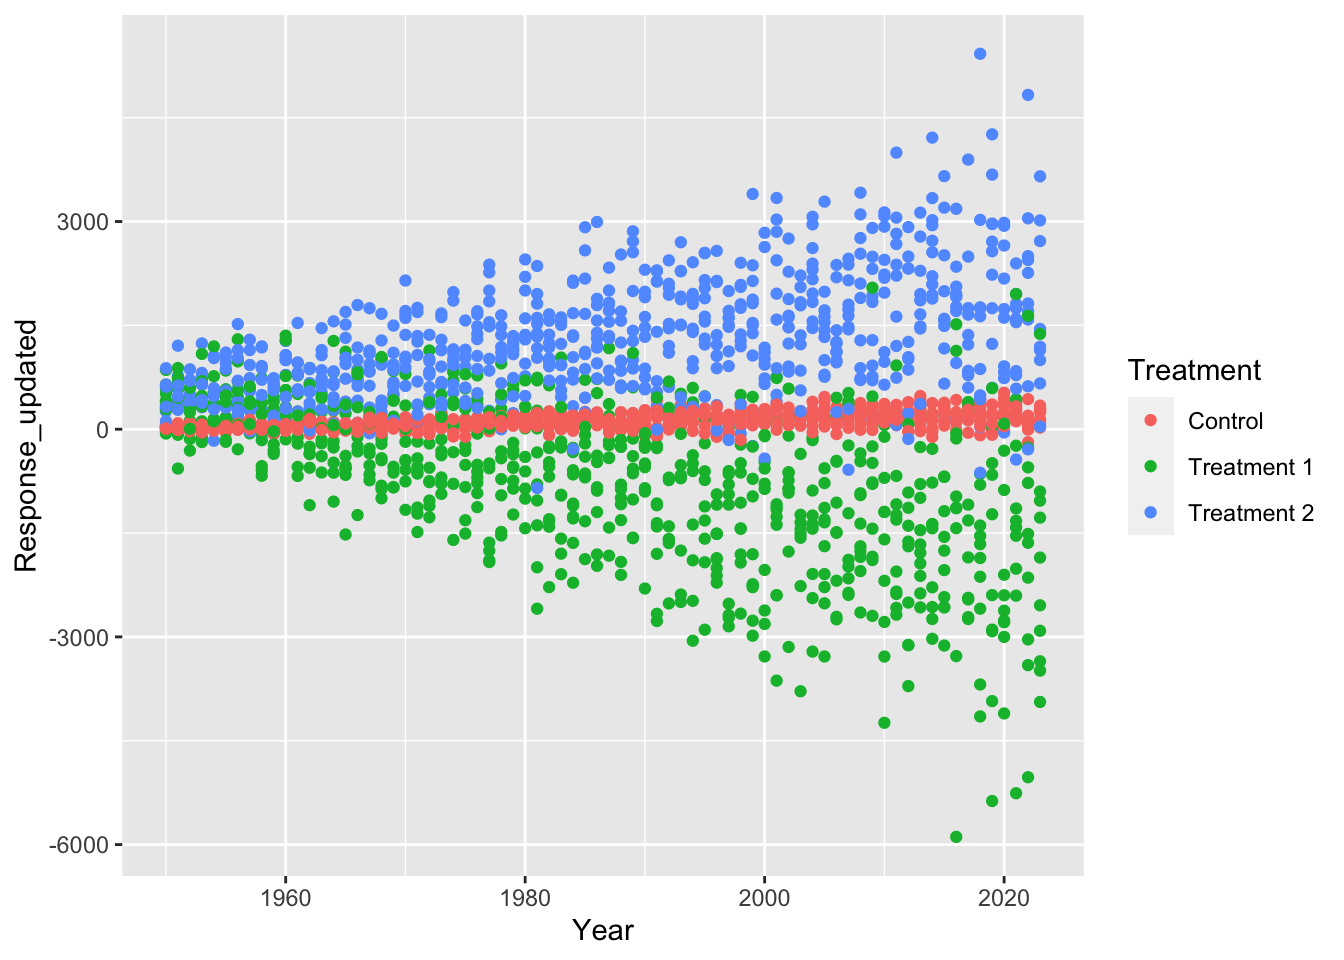
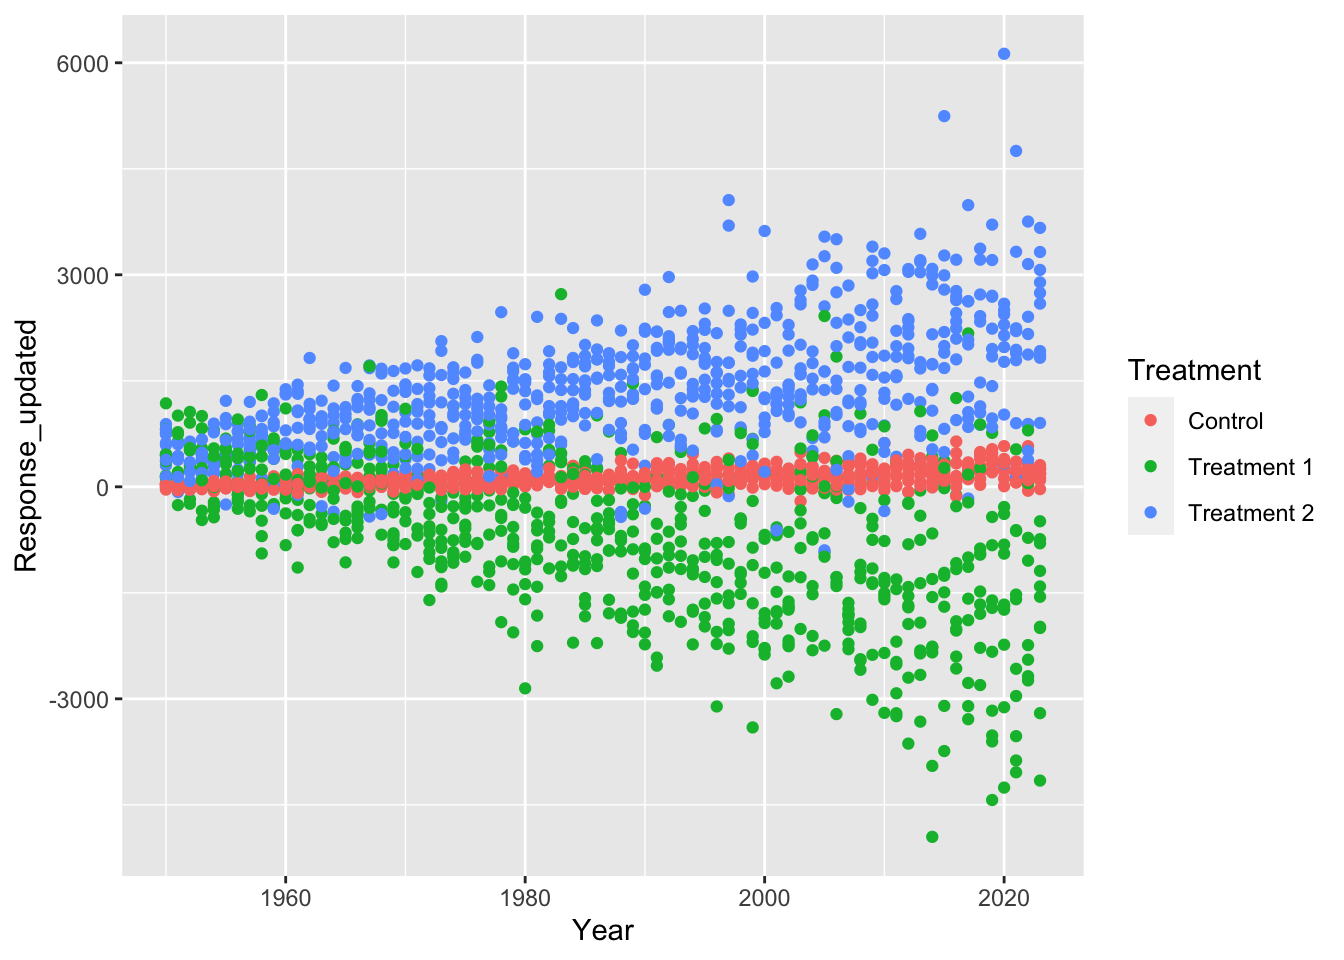
plots added

diff --git a/03_DataVisualisation.html b/03_DataVisualisation.html
@@ -82,7 +82,12 @@ pre > code.sourceCode > span > a:first-child::before { text-decoration: underlin
   <li><a href="#visualisation" id="toc-visualisation" class="nav-link active" data-scroll-target="#visualisation">Visualisation</a>
   <ul class="collapse">
   <li><a href="#base" id="toc-base" class="nav-link" data-scroll-target="#base">Base</a></li>
-  <li><a href="#ggplot2" id="toc-ggplot2" class="nav-link" data-scroll-target="#ggplot2">ggplot2</a></li>
+  <li><a href="#ggplot2" id="toc-ggplot2" class="nav-link" data-scroll-target="#ggplot2">ggplot2</a>
+  <ul class="collapse">
+  <li><a href="#the-grammar-of-graphics" id="toc-the-grammar-of-graphics" class="nav-link" data-scroll-target="#the-grammar-of-graphics">The Grammar of Graphics</a></li>
+  <li><a href="#plotting" id="toc-plotting" class="nav-link" data-scroll-target="#plotting">Plotting</a></li>
+  <li><a href="#appearance" id="toc-appearance" class="nav-link" data-scroll-target="#appearance">Appearance</a></li>
+  </ul></li>
   </ul></li>
   </ul>
 </nav>
@@ -210,9 +215,9 @@ pre > code.sourceCode > span > a:first-child::before { text-decoration: underlin
 <pre><code># A tibble: 3 × 3
   Treatment   MeanResponse SDResponse
   &lt;fct&gt;              &lt;dbl&gt;      &lt;dbl&gt;
-1 Control             121.       114.
-2 Treatment 1        -735.      1167.
-3 Treatment 2        1248.       859.</code></pre>
+1 Control             121.       120.
+2 Treatment 1        -659.      1107.
+3 Treatment 2        1299.       884.</code></pre>
 </div>
 <div class="sourceCode cell-code" id="cb12"><pre class="sourceCode r code-with-copy"><code class="sourceCode r"><span id="cb12-1"><a href="#cb12-1" aria-hidden="true" tabindex="-1"></a>df_1_summary_year<span class="ot">&lt;-</span>df_1 <span class="sc">%&gt;%</span> </span>
 <span id="cb12-2"><a href="#cb12-2" aria-hidden="true" tabindex="-1"></a>  <span class="fu">group_by</span>(Treatment,Year) <span class="sc">%&gt;%</span> </span>
@@ -228,56 +233,76 @@ pre > code.sourceCode > span > a:first-child::before { text-decoration: underlin
 # Groups:   Treatment [3]
    Treatment  Year MeanResponse SDResponse
    &lt;fct&gt;     &lt;dbl&gt;        &lt;dbl&gt;      &lt;dbl&gt;
- 1 Control    1950         4.81       20.7
- 2 Control    1951        21.4        32.3
- 3 Control    1952        31.0        36.1
- 4 Control    1953         5.16       34.5
- 5 Control    1954        28.1        27.8
- 6 Control    1955        27.2        40.5
- 7 Control    1956        44.9        46.5
- 8 Control    1957        48.7        50.5
- 9 Control    1958        29.8        28.8
-10 Control    1959        37.8        57.6
+ 1 Control    1950        14.7        28.1
+ 2 Control    1951         7.03       38.3
+ 3 Control    1952        12.8        41.5
+ 4 Control    1953        20.7        33.3
+ 5 Control    1954        16.3        44.4
+ 6 Control    1955        12.6        33.7
+ 7 Control    1956        28.5        32.5
+ 8 Control    1957        15.2        59.6
+ 9 Control    1958        19.6        38.4
+10 Control    1959        60.2        64.5
 # ℹ 212 more rows</code></pre>
 </div>
 </div>
 </section>
 <section id="ggplot2" class="level2">
 <h2 class="anchored" data-anchor-id="ggplot2">ggplot2</h2>
-<p>Now lets try and plot these data, for more complex plots ggplot2 is by far the best package</p>
-<p>we first make a blank ggplot saying what data we will include</p>
-<p>then we want to add layers to the plot for what we want to plot and how we want it to look</p>
-<p>for elements of the plot that change with data from the df we use the aes() function to show what column we want to map to what element (mapping=aes())</p>
+<section id="the-grammar-of-graphics" class="level3">
+<h3 class="anchored" data-anchor-id="the-grammar-of-graphics">The Grammar of Graphics</h3>
+<p>For more complex (and very simple) plots ggplot2 is by far the best package!</p>
+<p>The gg in ggplot2 and a lot of the associated packages stands for grammar of graphics, which is a very old framework for good visualisation.</p>
+<p>We don’t need to go far into it, but it effectively relies on three elements:</p>
+<ul>
+<li><p>Data</p></li>
+<li><p>Mapping</p></li>
+<li><p>Geometry</p></li>
+</ul>
+<p>In every plot we will want to plot Data, it may be 1 value, 1 dimensional, 2 dimensional…. all the way up to multi facetted and dimensional.</p>
+<p>We then want to assign some element of the data to elements of the plot, this is called mapping.</p>
+<p>This mapping will change based on the geometry (shape/style).</p>
+<p>For example earlier with base plot we Mapped a column (Data) to be the x axis and another to the y. (base plot assumed our geometry was a scatter plot)</p>
+</section>
+<section id="plotting" class="level3">
+<h3 class="anchored" data-anchor-id="plotting">Plotting</h3>
+<p>Using these principles we can build some very impressive and complicated plots.</p>
+<p>We first make a blank ggplot saying what data we will include using ggplot().</p>
+<p>For elements of the plot (aesthetics) that change with data from the df we use the aes() function to show what column we want to map to what element (mapping=aes()).</p>
+<p>Then we want to add layers (geometries) to the plot for what we want to plot and how we want it to look.</p>
 <div class="cell">
-<div class="sourceCode cell-code" id="cb16"><pre class="sourceCode r code-with-copy"><code class="sourceCode r"><span id="cb16-1"><a href="#cb16-1" aria-hidden="true" tabindex="-1"></a><span class="fu">ggplot</span>(<span class="at">data=</span>df_1)<span class="sc">+</span></span>
-<span id="cb16-2"><a href="#cb16-2" aria-hidden="true" tabindex="-1"></a>  <span class="fu">geom_point</span>(<span class="at">mapping=</span><span class="fu">aes</span>(<span class="at">x=</span>Year,<span class="at">y=</span>Response_updated,<span class="at">colour=</span>Treatment))</span></code><button title="Copy to Clipboard" class="code-copy-button"><i class="bi"></i></button></pre></div>
+<div class="sourceCode cell-code" id="cb16"><pre class="sourceCode r code-with-copy"><code class="sourceCode r"><span id="cb16-1"><a href="#cb16-1" aria-hidden="true" tabindex="-1"></a><span class="fu">ggplot</span>(<span class="at">data=</span>df_1,</span>
+<span id="cb16-2"><a href="#cb16-2" aria-hidden="true" tabindex="-1"></a>       <span class="at">mapping=</span><span class="fu">aes</span>(<span class="at">x=</span>Year,</span>
+<span id="cb16-3"><a href="#cb16-3" aria-hidden="true" tabindex="-1"></a>                   <span class="at">y=</span>Response_updated,</span>
+<span id="cb16-4"><a href="#cb16-4" aria-hidden="true" tabindex="-1"></a>                   <span class="at">colour=</span>Treatment))<span class="sc">+</span></span>
+<span id="cb16-5"><a href="#cb16-5" aria-hidden="true" tabindex="-1"></a>  <span class="fu">geom_point</span>()</span></code><button title="Copy to Clipboard" class="code-copy-button"><i class="bi"></i></button></pre></div>
 <div class="cell-output-display">
 <p><img src="03_DataVisualisation_files/figure-html/unnamed-chunk-9-1.png" class="img-fluid" width="672"></p>
 </div>
 </div>
-<p>This looks good but could be Nicer there are many geom types to dictate the type of plot</p>
-<p>different geom types have different required aesthetic elements, we could check by using ??geom_point for example</p>
-<p>generally we use, x, y, colour, fill and alpha (transparency)</p>
-<p>unlike base plotting ggplot creates a legend automatically, this becomes more complex as the plot becomes more complex but is generally a nice default</p>
+<p>This looks good but could be nicer! There are many geom types to dictate the type of plot.</p>
+<p>Different geom types have different required aesthetic elements, we could check by using ??geom_point for example</p>
+<p>Generally we use x, y, colour, fill and alpha (transparency). (Sometimes z or label or many others)</p>
+<p>Unlike base plotting ggplot creates a legend automatically, this becomes more complex as the plot becomes more complex but is generally a nice default.</p>
 <div class="cell">
-<div class="sourceCode cell-code" id="cb17"><pre class="sourceCode r code-with-copy"><code class="sourceCode r"><span id="cb17-1"><a href="#cb17-1" aria-hidden="true" tabindex="-1"></a><span class="fu">ggplot</span>(df_1)<span class="sc">+</span></span>
-<span id="cb17-2"><a href="#cb17-2" aria-hidden="true" tabindex="-1"></a>  <span class="fu">geom_density</span>(<span class="fu">aes</span>(<span class="at">x=</span>Response_updated,<span class="at">colour=</span>Treatment))</span></code><button title="Copy to Clipboard" class="code-copy-button"><i class="bi"></i></button></pre></div>
+<div class="sourceCode cell-code" id="cb17"><pre class="sourceCode r code-with-copy"><code class="sourceCode r"><span id="cb17-1"><a href="#cb17-1" aria-hidden="true" tabindex="-1"></a><span class="fu">ggplot</span>(df_1,<span class="fu">aes</span>(<span class="at">x=</span>Response_updated,<span class="at">colour=</span>Treatment))<span class="sc">+</span></span>
+<span id="cb17-2"><a href="#cb17-2" aria-hidden="true" tabindex="-1"></a>  <span class="fu">geom_density</span>()</span></code><button title="Copy to Clipboard" class="code-copy-button"><i class="bi"></i></button></pre></div>
 <div class="cell-output-display">
 <p><img src="03_DataVisualisation_files/figure-html/unnamed-chunk-10-1.png" class="img-fluid" width="672"></p>
 </div>
-<div class="sourceCode cell-code" id="cb18"><pre class="sourceCode r code-with-copy"><code class="sourceCode r"><span id="cb18-1"><a href="#cb18-1" aria-hidden="true" tabindex="-1"></a><span class="fu">ggplot</span>(df_1)<span class="sc">+</span></span>
-<span id="cb18-2"><a href="#cb18-2" aria-hidden="true" tabindex="-1"></a>  <span class="fu">geom_col</span>(<span class="fu">aes</span>(<span class="at">x=</span>Year,<span class="at">y=</span>Response_updated,<span class="at">fill=</span>Treatment),<span class="at">alpha=</span><span class="fl">0.5</span>)</span></code><button title="Copy to Clipboard" class="code-copy-button"><i class="bi"></i></button></pre></div>
+<div class="sourceCode cell-code" id="cb18"><pre class="sourceCode r code-with-copy"><code class="sourceCode r"><span id="cb18-1"><a href="#cb18-1" aria-hidden="true" tabindex="-1"></a><span class="fu">ggplot</span>(df_1,<span class="fu">aes</span>(<span class="at">x=</span>Year,<span class="at">y=</span>Response_updated,<span class="at">fill=</span>Treatment))<span class="sc">+</span></span>
+<span id="cb18-2"><a href="#cb18-2" aria-hidden="true" tabindex="-1"></a>  <span class="fu">geom_col</span>(<span class="at">alpha=</span><span class="fl">0.5</span>)</span></code><button title="Copy to Clipboard" class="code-copy-button"><i class="bi"></i></button></pre></div>
 <div class="cell-output-display">
 <p><img src="03_DataVisualisation_files/figure-html/unnamed-chunk-10-2.png" class="img-fluid" width="672"></p>
 </div>
-<div class="sourceCode cell-code" id="cb19"><pre class="sourceCode r code-with-copy"><code class="sourceCode r"><span id="cb19-1"><a href="#cb19-1" aria-hidden="true" tabindex="-1"></a><span class="fu">ggplot</span>(df_1)<span class="sc">+</span></span>
-<span id="cb19-2"><a href="#cb19-2" aria-hidden="true" tabindex="-1"></a>  <span class="fu">geom_boxplot</span>(<span class="fu">aes</span>(<span class="at">x=</span>Treatment,<span class="at">y=</span>Response_updated,<span class="at">fill=</span>Treatment),<span class="at">alpha=</span><span class="fl">0.5</span>)</span></code><button title="Copy to Clipboard" class="code-copy-button"><i class="bi"></i></button></pre></div>
+<div class="sourceCode cell-code" id="cb19"><pre class="sourceCode r code-with-copy"><code class="sourceCode r"><span id="cb19-1"><a href="#cb19-1" aria-hidden="true" tabindex="-1"></a><span class="fu">ggplot</span>(df_1,<span class="fu">aes</span>(<span class="at">x=</span>Treatment,<span class="at">y=</span>Response_updated,<span class="at">fill=</span>Treatment))<span class="sc">+</span></span>
+<span id="cb19-2"><a href="#cb19-2" aria-hidden="true" tabindex="-1"></a>  <span class="fu">geom_boxplot</span>(<span class="at">alpha=</span><span class="fl">0.5</span>)</span></code><button title="Copy to Clipboard" class="code-copy-button"><i class="bi"></i></button></pre></div>
 <div class="cell-output-display">
 <p><img src="03_DataVisualisation_files/figure-html/unnamed-chunk-10-3.png" class="img-fluid" width="672"></p>
 </div>
 </div>
-<p>We can also add new data into the same plot so we could use the summary data too, for this we add the data to the geom we want it used for</p>
-<p>Here we have both the fill and the colour with the same levels (Treatment), ggplot will automatically combine these in the legends</p>
+<p>We can also add new data into the same plot, so we could use the summary data too, for this we add the data to the geom (geometry) we want it used for.</p>
+<p>Here we have both the fill and the colour with the same levels (Treatment), ggplot will automatically combine these into one legend.</p>
 <div class="cell">
 <div class="sourceCode cell-code" id="cb20"><pre class="sourceCode r code-with-copy"><code class="sourceCode r"><span id="cb20-1"><a href="#cb20-1" aria-hidden="true" tabindex="-1"></a><span class="fu">ggplot</span>()<span class="sc">+</span></span>
 <span id="cb20-2"><a href="#cb20-2" aria-hidden="true" tabindex="-1"></a>  <span class="fu">geom_point</span>(<span class="at">data=</span>df_1,<span class="at">mapping=</span><span class="fu">aes</span>(<span class="at">x=</span>Year,<span class="at">y=</span>Response_updated,<span class="at">colour=</span>Treatment),</span>
@@ -290,9 +315,14 @@ pre > code.sourceCode > span > a:first-child::before { text-decoration: underlin
 <p><img src="03_DataVisualisation_files/figure-html/unnamed-chunk-11-1.png" class="img-fluid" width="672"></p>
 </div>
 </div>
-<p>We can now change the style and appearance, theme() is used to change appearances</p>
-<p>there are also some preset theme functions like theme_classic() or theme_bw()</p>
-<p>we can also define the colours or fill we want using the scale_colour_manual() and scale_fill_manual() functions</p>
+</section>
+<section id="appearance" class="level3">
+<h3 class="anchored" data-anchor-id="appearance">Appearance</h3>
+<p>We can now change the style and appearance of the whole plot with the function theme()</p>
+<p>There are also some preset theme functions like theme_classic() or theme_bw()</p>
+<p>We can also change the appearance with our mapping elements to define the colours or fill we want using the scale_colour_manual() and scale_fill_manual() functions. This is also true for all mapping, the x or y axis can be edited with scale_x/y_*() functions).</p>
+<p>There are many different scale functions within ggplot so we some times use a * to say that it could be any that we use.</p>
+<p>Maybe we want to set odd x breaks or flip the y axis upside down?</p>
 <div class="cell">
 <div class="sourceCode cell-code" id="cb21"><pre class="sourceCode r code-with-copy"><code class="sourceCode r"><span id="cb21-1"><a href="#cb21-1" aria-hidden="true" tabindex="-1"></a><span class="fu">ggplot</span>()<span class="sc">+</span></span>
 <span id="cb21-2"><a href="#cb21-2" aria-hidden="true" tabindex="-1"></a>  <span class="fu">geom_point</span>(<span class="at">data=</span>df_1,<span class="at">mapping=</span><span class="fu">aes</span>(<span class="at">x=</span>Year,<span class="at">y=</span>Response_updated,<span class="at">colour=</span>Treatment),</span>
@@ -303,8 +333,10 @@ pre > code.sourceCode > span > a:first-child::before { text-decoration: underlin
 <span id="cb21-7"><a href="#cb21-7" aria-hidden="true" tabindex="-1"></a>  <span class="fu">geom_line</span>(<span class="at">data=</span>df_1_summary_year,<span class="at">mapping=</span><span class="fu">aes</span>(<span class="at">x=</span>Year,<span class="at">y=</span>MeanResponse,<span class="at">colour=</span>Treatment))<span class="sc">+</span></span>
 <span id="cb21-8"><a href="#cb21-8" aria-hidden="true" tabindex="-1"></a>  <span class="fu">scale_colour_manual</span>(<span class="at">values=</span><span class="fu">c</span>(<span class="st">"darkcyan"</span>,<span class="st">"darkorange"</span>,<span class="st">"grey30"</span>))<span class="sc">+</span></span>
 <span id="cb21-9"><a href="#cb21-9" aria-hidden="true" tabindex="-1"></a>  <span class="fu">scale_fill_manual</span>(<span class="at">values=</span><span class="fu">c</span>(<span class="st">"darkcyan"</span>,<span class="st">"darkorange"</span>,<span class="st">"grey30"</span>))<span class="sc">+</span></span>
-<span id="cb21-10"><a href="#cb21-10" aria-hidden="true" tabindex="-1"></a>  <span class="fu">labs</span>(<span class="at">x=</span><span class="st">"Year"</span>,<span class="at">y=</span><span class="st">"Response Variable"</span>)<span class="sc">+</span></span>
-<span id="cb21-11"><a href="#cb21-11" aria-hidden="true" tabindex="-1"></a>  <span class="fu">theme_classic</span>()</span></code><button title="Copy to Clipboard" class="code-copy-button"><i class="bi"></i></button></pre></div>
+<span id="cb21-10"><a href="#cb21-10" aria-hidden="true" tabindex="-1"></a>  <span class="fu">scale_x_continuous</span>(<span class="at">breaks =</span> <span class="fu">c</span>(<span class="dv">1955</span>,<span class="dv">1982</span>,<span class="dv">2010</span>,<span class="dv">2023</span>))<span class="sc">+</span> </span>
+<span id="cb21-11"><a href="#cb21-11" aria-hidden="true" tabindex="-1"></a>  <span class="fu">scale_y_reverse</span>()<span class="sc">+</span></span>
+<span id="cb21-12"><a href="#cb21-12" aria-hidden="true" tabindex="-1"></a>  <span class="fu">labs</span>(<span class="at">x=</span><span class="st">"Year"</span>,<span class="at">y=</span><span class="st">"Response Variable"</span>)<span class="sc">+</span></span>
+<span id="cb21-13"><a href="#cb21-13" aria-hidden="true" tabindex="-1"></a>  <span class="fu">theme_classic</span>()</span></code><button title="Copy to Clipboard" class="code-copy-button"><i class="bi"></i></button></pre></div>
 <div class="cell-output-display">
 <p><img src="03_DataVisualisation_files/figure-html/unnamed-chunk-12-1.png" class="img-fluid" width="672"></p>
 </div>
@@ -327,10 +359,10 @@ pre > code.sourceCode > span > a:first-child::before { text-decoration: underlin
 <p><img src="03_DataVisualisation_files/figure-html/unnamed-chunk-13-1.png" class="img-fluid" width="672"></p>
 </div>
 </div>
-<p>We can add up different layers but also edit all elements of the plot using either the theme() or scale arguments</p>
+<p>We can add up different layers but also edit all elements of the plot using either the theme() or scale_*_() functions</p>
 <p>These are all the elements you can change within theme:</p>
 <p>theme( line, rect, text, title, aspect.ratio, axis.title, axis.title.x, axis.title.x.top, axis.title.x.bottom, axis.title.y, axis.title.y.left, axis.title.y.right, axis.text, axis.text.x, axis.text.x.top, axis.text.x.bottom, axis.text.y, axis.text.y.left, axis.text.y.right, axis.ticks, axis.ticks.x, axis.ticks.x.top, axis.ticks.x.bottom, axis.ticks.y, axis.ticks.y.left, axis.ticks.y.right, axis.ticks.length, axis.ticks.length.x, axis.ticks.length.x.top, axis.ticks.length.x.bottom, axis.ticks.length.y, axis.ticks.length.y.left, axis.ticks.length.y.right, axis.line, axis.line.x, axis.line.x.top, axis.line.x.bottom, axis.line.y, axis.line.y.left, axis.line.y.right, legend.background, legend.margin, legend.spacing, legend.spacing.x, legend.spacing.y, legend.key, legend.key.size, legend.key.height, legend.key.width, legend.text, legend.text.align, legend.title, legend.title.align, legend.position, legend.direction, legend.justification, legend.box, legend.box.just, legend.box.margin, legend.box.background, legend.box.spacing, panel.background, panel.border, panel.spacing, panel.spacing.x, panel.spacing.y, panel.grid, panel.grid.major, panel.grid.minor, panel.grid.major.x, panel.grid.major.y, panel.grid.minor.x, panel.grid.minor.y, panel.ontop, plot.background, plot.title, plot.title.position, plot.subtitle, plot.caption, plot.caption.position, plot.tag, plot.tag.position, plot.margin, strip.background, strip.background.x, strip.background.y, strip.clip, strip.placement, strip.text, strip.text.x, strip.text.x.bottom, strip.text.x.top, strip.text.y, strip.text.y.left, strip.text.y.right, strip.switch.pad.grid, strip.switch.pad.wrap )</p>
-<p>Each one can be edited by its own element, so for a background it is a rectangle so we might say (inside theme()) but for a grid line it is a grid line</p>
+<p>Each one can be edited by its own element, so for a background it is a rectangle so we might say (inside theme()) but for a grid line it is a line.</p>
 <p>plot.background=element_rect(fill=“grey80”) this will mean the rectangular element of the plot background will be filled with the colour grey80</p>
 <p>panel.grid.major.y= element_line(colour = “green”,linetype = “dotdash”,linewidth =2) this will mean the axis lines element of the panel background will be a green dotdashed line of linewidth 2 with the colour grey80</p>
 <p>We can add titles and subtitles or change the legend title inside the labs function (if we only change the fill title it will split the colour and fill legends),</p>
@@ -491,6 +523,7 @@ pre > code.sourceCode > span > a:first-child::before { text-decoration: underlin
 <span id="cb28-12"><a href="#cb28-12" aria-hidden="true" tabindex="-1"></a></span>
 <span id="cb28-13"><a href="#cb28-13" aria-hidden="true" tabindex="-1"></a><span class="fu">ggsave</span>(<span class="st">"This_Is_Our_First_Saved_Plot.png"</span>, Plot_To_Save, <span class="at">width=</span><span class="dv">10</span>, <span class="at">height=</span><span class="dv">10</span>) <span class="co"># dont forget to put the file type at the end we will use .png</span></span></code><button title="Copy to Clipboard" class="code-copy-button"><i class="bi"></i></button></pre></div>
 </div>
+</section>
 </section>
 </section>
 
